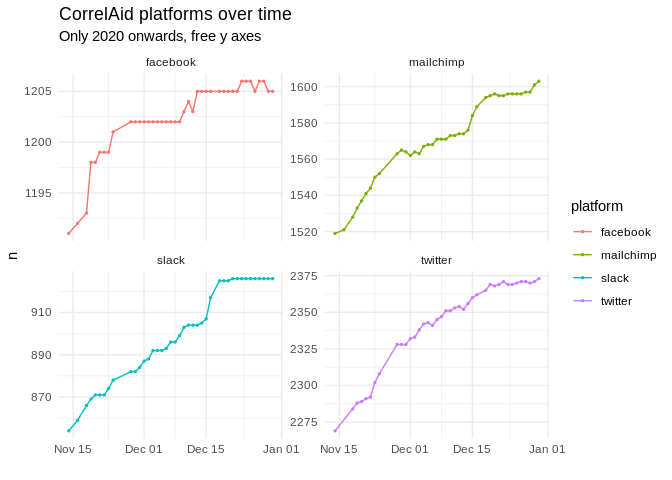
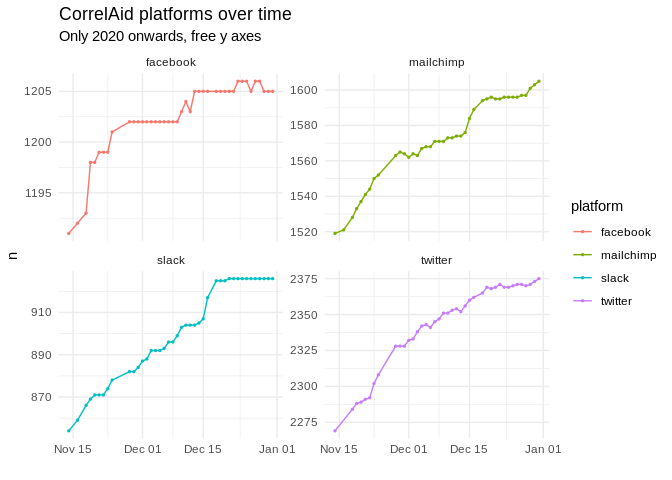
🤖 CRON - update daily data

diff --git a/README.md b/README.md
@@ -25,8 +25,8 @@ count and general network data on a daily basis using
 
 ### Plots
 
-*last updated*: 2020-12-30
-23:50:12
+*last updated*: 2020-12-31
+23:50:13
 
 ![](README_files/figure-gfm/plot-alltime-1.png)<!-- -->
 
